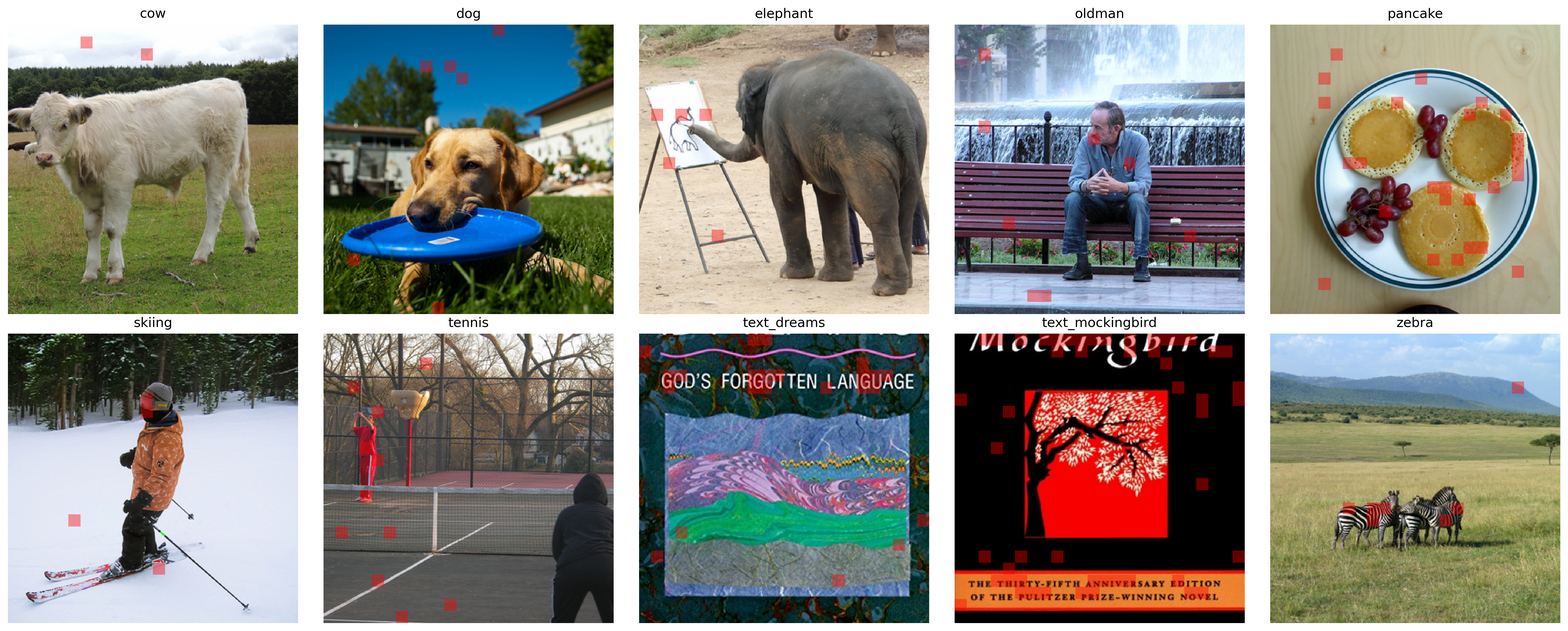
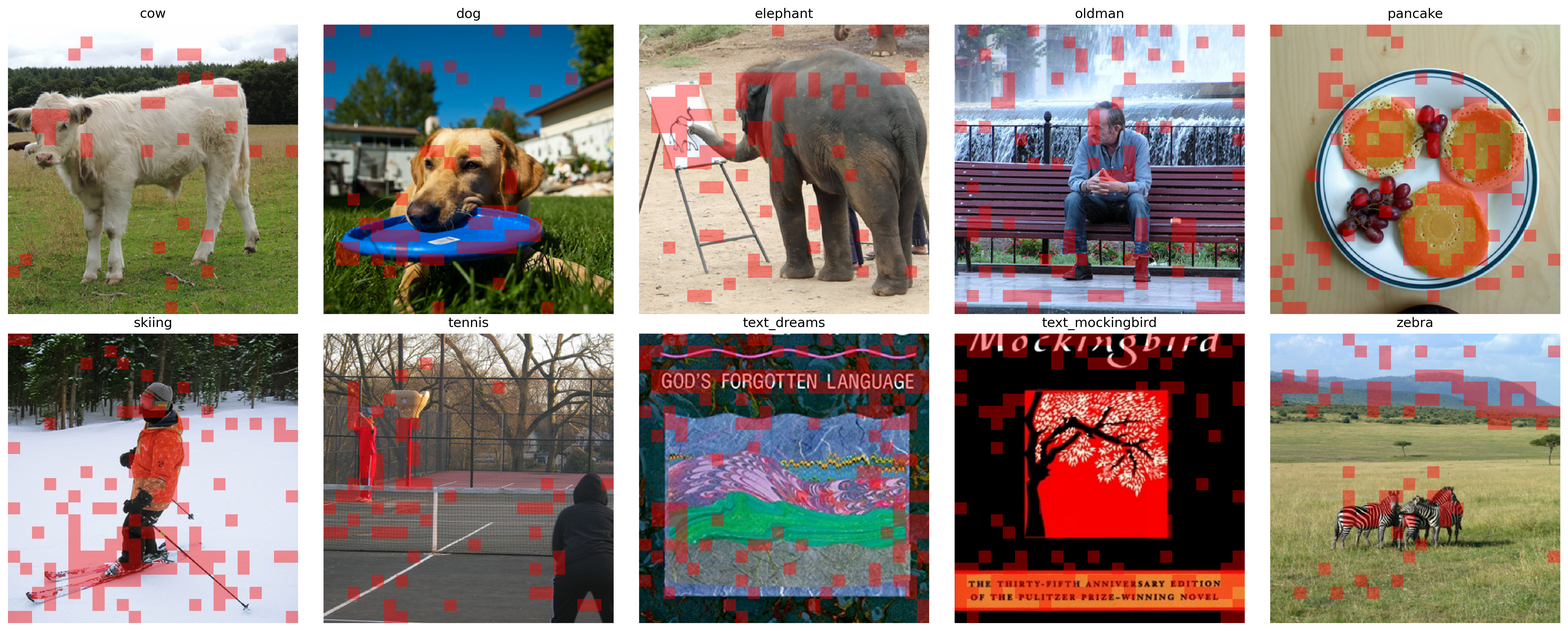
submitted DRIP 4x job

diff --git a/src/boundary_visual_LLaVA.py b/src/boundary_visual_LLaVA.py
@@ -208,7 +208,8 @@ def visualize_original_10_images_2x5(
 
 
 def main():
-    DRIP_WEIGHT_PATH = "/fs/scratch/PAS2836/yusenpeng_checkpoint/LLaVA_7B_TEST_DRIP/checkpoint-115/drip.bin"
+    DRIP_WEIGHT_PATH = "/fs/scratch/PAS2836/yusenpeng_checkpoint/LLaVA_7B_DRIP_4x_pretrain/checkpoint-80/drip.bin"
+    COMPRESSION_RATE = 0.25
 
 
     device = "cuda" if torch.cuda.is_available() else "cpu"
@@ -216,7 +217,7 @@ def main():
         vision_tower_name="openai/clip-vit-large-patch14-336",
         mm_vision_select_layer=-1,
         mm_vision_select_feature="patch",
-        compression_rate=0.125,
+        compression_rate=COMPRESSION_RATE,
         drip_weight_path=DRIP_WEIGHT_PATH,
         device=device,
     )

diff --git a/src/LLaVA_wrapper/llava_local/model/multimodal_encoder/builder.py b/src/LLaVA_wrapper/llava_local/model/multimodal_encoder/builder.py
@@ -13,10 +13,10 @@ def build_vision_tower(vision_tower_cfg, **kwargs):
             "DRIP": our design
     """
 
-    MERGE_STRATEGY = "ViT"
+    MERGE_STRATEGY = "DRIP"
     # 2x - 0.5, 4x - 0.25, 8x - 0.125, 10x - 0.1
-    COMPRESSION_RATE = 0.125
-    DRIP_WEIGHT_PATH = "/fs/scratch/PAS2836/yusenpeng_checkpoint/LLaVA_7B_TEST_DRIP/checkpoint-60/drip.bin"
+    COMPRESSION_RATE = 0.25
+    DRIP_WEIGHT_PATH = "/fs/scratch/PAS2836/yusenpeng_checkpoint/LLaVA_7B_DRIP_4x_pretrain/checkpoint-80/drip.bin"
 
     ############################################################
 

diff --git a/src/LLaVA_wrapper/llava_local/model/multimodal_encoder/clip_encoder.py b/src/LLaVA_wrapper/llava_local/model/multimodal_encoder/clip_encoder.py
@@ -119,6 +119,8 @@ class CLIPVisionTower(nn.Module):
                 assert len(missing) == 0, f"Missing keys when loading DRIP weights: {missing}"
                 assert len(unexpected) == 0, f"Unexpected keys when loading DRIP weights: {unexpected}"
                 print(f"🦄🦄🦄 [INFO] Loaded DRIP weights from {self.drip_weight_path}")
+            else:
+                print(f"🐴🐴🐴 [INFO] No DRIP weights provided, initializing DRIP modules from scratch.")
 
 
         elif self.merge_strategy == "Fixed":

diff --git a/README.md b/README.md
@@ -65,8 +65,8 @@ examples:
 | ---------- | -------------- |
 | imagenet_DRIP_4x_01_warmup2 | model_299.pth |
 | ![alt text](/src/boundary_vis/w2_4x_boundaries.png) | ![alt text](/src/boundary_vis/w2_4x_attention.png) |
-| imagenet_DRIP_4x_half_LR_no_warmup | model_299.pth |
-| ![alt text](/src/boundary_vis/halfLR_dtpvit_single_multi_overlay.png) | ![alt text](/src/boundary_vis/halfLR_dtpvit_single_multi_attention_overlay.png) |
+<!-- | imagenet_DRIP_4x_half_LR_no_warmup | model_299.pth |
+| ![alt text](/src/boundary_vis/halfLR_dtpvit_single_multi_overlay.png) | ![alt text](/src/boundary_vis/halfLR_dtpvit_single_multi_attention_overlay.png) | -->
 
 
 ## LLaVA
@@ -149,7 +149,6 @@ sbatch test_flash_attn.sh
 ```bash
 # ascend with flash attention
 sbatch scripts/task3/pretrain_ascend_flash.sh
-# anvil
 ```
 
 ### finetuning/VQA SFT
@@ -171,10 +170,9 @@ conda activate DRIP_flash
 python src/boundary_visual_LLaVA.py
 ```
 
+visualization examples:
 
-## Results
-
-![alt text](results/llava_7B_results.png)
+![alt text](src/boundary_vis/LLaVA_results/llava_drip_boundaries_2x5.png)
 
 
 ## Contacts
